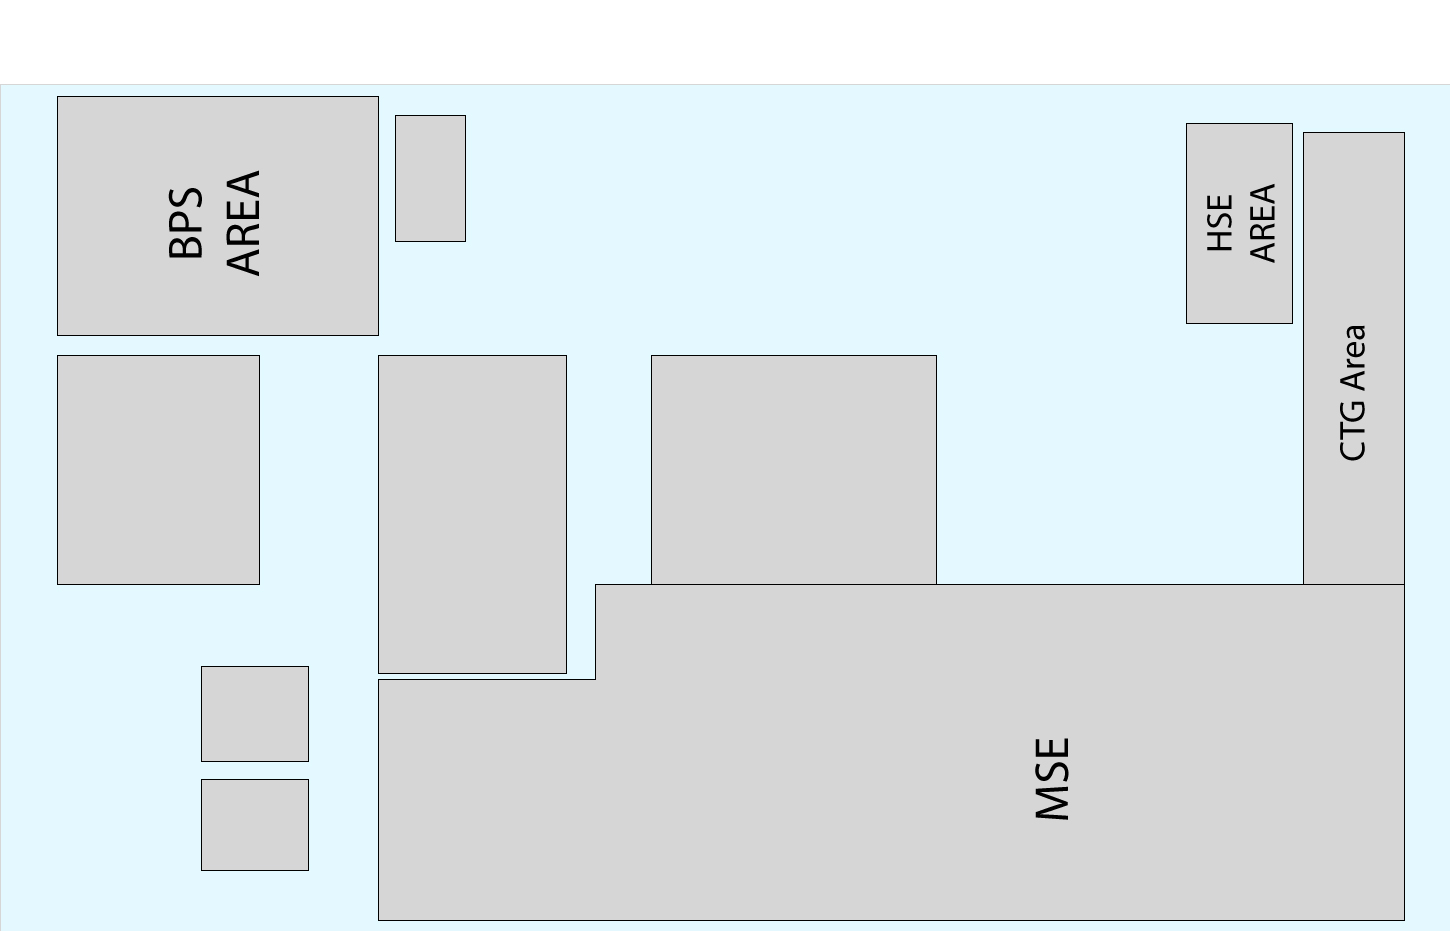
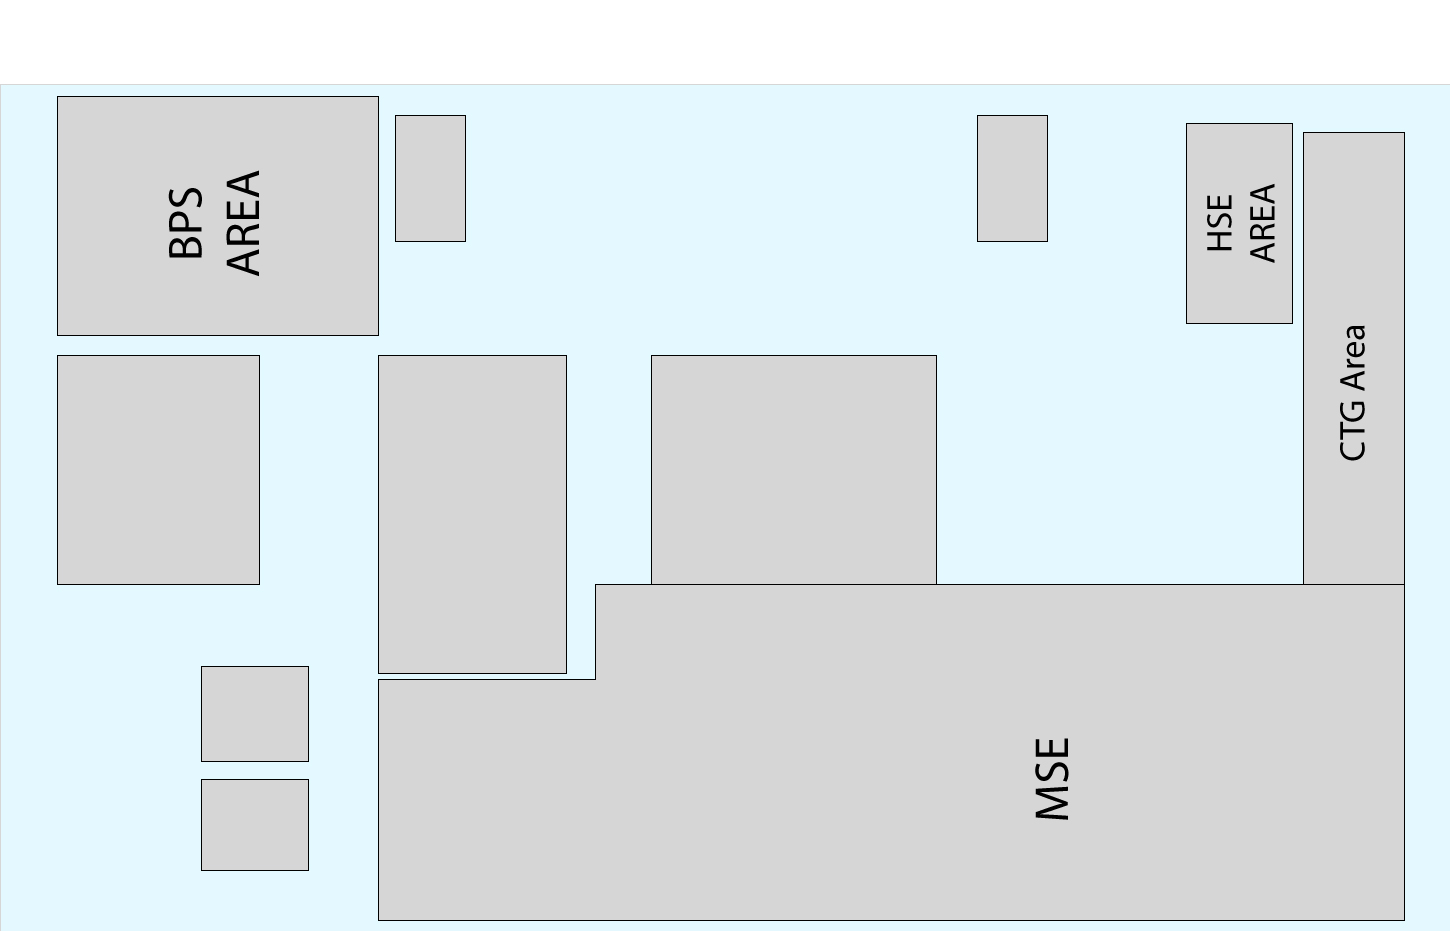
buffer

Changed region(s): [[0.6517, 0.1246, 0.7448, 0.2803]]

diff --git a/src/app/shared/map/map.component.html b/src/app/shared/map/map.component.html
@@ -3,6 +3,10 @@
     <h5>ICO Desk 16 pc</h5>
   </div>
 
+  <div class="counter buff-area">
+    <h5>Buffer Area</h5>
+  </div>
+
   <div class="office">
     <div class="group">
       <div class="desk">A1</div>
@@ -30,6 +34,15 @@
       <div class="desk">D2</div>
       <div class="desk">D3</div>
       <div class="desk">D4</div>
+    </div>
+  </div>
+
+  <div class="buffer">
+    <div class="group">
+      <div class="desk buff">E1</div>
+      <div class="desk buff">E2</div>
+      <div class="desk buff">E3</div>
+      <div class="desk buff">E4</div>
     </div>
   </div>
 

diff --git a/src/app/shared/map/map.component.css b/src/app/shared/map/map.component.css
@@ -18,6 +18,14 @@
   text-align: center;
   padding: 5px;
   margin-top: 5px;
+  position: absolute;
+  left: 862px;
+}
+
+.buff-area {
+  background-color: rgb(248, 227, 135);
+  width: 80px;
+  left: 1125px;
 }
 
 .office {
@@ -50,4 +58,16 @@
 
 .desk:hover {
   cursor: pointer;
+}
+
+.buffer {
+  display: flex;
+  gap: 10px;
+  position: absolute;
+  top: 225px;
+  left: 1140px;
+}
+
+.buff {
+  background-color: rgb(248, 227, 135);
 }
